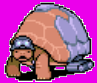
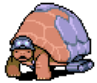
Now actually applies anti-alias clean up when flag is true

diff --git a/src/AntiAliasClean.cpp b/src/AntiAliasClean.cpp
@@ -81,7 +81,7 @@ void convertBGRtoHSL(cv::Vec3b& inputBGR, int& outLum, int& outSat, int& outHue)
 //  - colourList: where the unique colours will be stored 
 void findAllColours(cv::Mat& inputImg, std::vector<colourBucket>& colourList, std::string printLine)
 {
-    std::cout << printLine << std::endl;
+    //std::cout << printLine << std::endl;
 
     //ITERATING OVER THE IMAGE MATRIX 
     for (int i = 0; i < inputImg.rows; i++)
@@ -92,7 +92,7 @@ void findAllColours(cv::Mat& inputImg, std::vector<colourBucket>& colourList, st
             cv::Vec3b pixel = inputImg.at<cv::Vec3b>(i, j);
 
             //If it's a magenta pixel, it's not one of interest. 
-            if (!(pixel[0] == 255 && pixel[1] == 0 && pixel[2] == 255))
+            if (!(pixel[0] == 255 && pixel[1] == 255 && pixel[2] == 255))
             {
                 //If our list is empty, we do want to keep this colour. 
                 if (colourList.size() == 0)
@@ -148,7 +148,7 @@ void findAllColours(cv::Mat& inputImg, std::vector<colourBucket>& colourList, st
 //  - colourList: where the darkest and lightest colours will be put. for best use, should be empty to start 
 void findExtremeColours(cv::Mat& inputImg, std::vector<colourBucket>& colourList, std::string printLine)
 {
-    std::cout << printLine << std::endl;
+    //std::cout << printLine << std::endl;
 
     colourBucket currDarkest;
     currDarkest.averageCol = cv::Vec3b(255, 255, 255);
@@ -175,7 +175,7 @@ void findExtremeColours(cv::Mat& inputImg, std::vector<colourBucket>& colourList
             cv::Vec3b pixel = inputImg.at<cv::Vec3b>(i, j);
 
             //If it's a magenta pixel, it's not one of interest. 
-            if (!(pixel[0] == 255 && pixel[1] == 0 && pixel[2] == 255))
+            if (!(pixel[0] == 255 && pixel[1] == 255 && pixel[2] == 255))
             {
                 int pixelLum, pixelSat, pixelHue;
                 convertBGRtoHSL(pixel, pixelLum, pixelSat, pixelHue);
@@ -216,6 +216,7 @@ void findExtremeColours(cv::Mat& inputImg, std::vector<colourBucket>& colourList
         colourList.push_back(currLightest);
     }
 
+    /* OUTPUT DATA
     std::cout << "CURRENT STATUS AFTER EXTREMES: " << std::endl;
     for (int k = 0; k < colourList.size(); k++)
     {
@@ -234,6 +235,7 @@ void findExtremeColours(cv::Mat& inputImg, std::vector<colourBucket>& colourList
         }
     }
     std::cout << "-------------------------------" << std::endl;
+    */
 }
 
 //INPUT
@@ -492,7 +494,7 @@ void placePixelInBucket(cv::Vec3b& pixel, std::vector<colourBucket>& colourList)
 //  - colourList: the resulting average colours 
 void findCoreColours(cv::Mat& inputImg, std::vector<colourBucket>& colourList, std::string printLine)
 {
-    std::cout << printLine << std::endl;
+    //std::cout << printLine << std::endl;
 
     //ITERATING OVER THE IMAGE MATRIX 
     for (int i = 0; i < inputImg.rows; i++)
@@ -503,7 +505,7 @@ void findCoreColours(cv::Mat& inputImg, std::vector<colourBucket>& colourList, s
             cv::Vec3b pixel = inputImg.at<cv::Vec3b>(i, j);
 
             //If it's a magenta pixel, it's not one of interest. 
-            if (!(pixel[0] == 255 && pixel[1] == 0 && pixel[2] == 255))
+            if (!(pixel[0] == 255 && pixel[1] == 255 && pixel[2] == 255))
             {
                 //If our list is empty, we do want to keep this colour. 
                 if (colourList.size() == 0)
@@ -538,7 +540,7 @@ void compressCoreColours(std::vector<colourBucket>& origColList, std::vector<col
     for (int i = 0; i < origColList.size(); i++)
         compColList.push_back(origColList[i]);
 
-    std::cout << printLine << std::endl;
+    //std::cout << printLine << std::endl;
     //Go over all buckets to see if there's any combinations needed
     for (int colListCheck = 0; colListCheck < compColList.size() - 1; colListCheck++)
     {
@@ -687,7 +689,7 @@ void paintImgWithBuckets(cv::Mat& antiAlias, cv::Mat& paintedImg, std::vector<co
             cv::Vec3b pixel = antiAlias.at<cv::Vec3b>(i, j);
 
             //If it's a magenta pixel, it's not one of interest. 
-            if (!(pixel[0] == 255 && pixel[1] == 0 && pixel[2] == 255))
+            if (!(pixel[0] == 255 && pixel[1] == 255 && pixel[2] == 255))
             {
                 //Current pixel is not magenta
                 //Find the actual pixel colour in colourBucket
@@ -737,14 +739,14 @@ void paintImgWithBuckets(cv::Mat& antiAlias, cv::Mat& paintedImg, std::vector<co
     }
 }
 
-//The process for actually cleaning up an antialiased img 
-void antiAliasCleanup()
+//The testing function for cleanup. Outputs lots of data for comparing
+void testingAntiAliasCleanup()
 {
     //Loading in the original (for comparison) and the anti alias imgs 
     cv::String origPic = "Ocarina_Original";
     cv::String antiPic = "Ocarina_Anti";
 
-    cv::Mat imgOriginal = imread("./input/" + origPic + ".png");
+    cv::Mat imgOriginal = imread("./input/" + origPic + ".png"); 
     cv::Mat img_toTestImage = imread("./input/" + antiPic + ".png");
 
     //Canvas used for seeing what colours we're finding
@@ -769,8 +771,8 @@ void antiAliasCleanup()
     cv::Mat cleanedImage = img_Sharp.clone();
 
     //Finding bucket data 
-    std::vector<colourBucket> origImgcolourBuckets;
-    findAllColours(imgOriginal, origImgcolourBuckets, "Original Img colours:");
+    std::vector<colourBucket> origImgcolourBuckets; 
+    findAllColours(imgOriginal, origImgcolourBuckets, "Original Img colours:");  
     std::vector<colourBucket> sharpImgColourBuckets;
     findAllColours(img_Sharp, sharpImgColourBuckets, "Sharp colours");
     std::vector<colourBucket> sharpImgCoreColourBuckets;
@@ -779,7 +781,7 @@ void antiAliasCleanup()
     compressCoreColours(sharpImgCoreColourBuckets, sharpImgCompressedCoreColourBuckets, "Sharp CORE colours");
 
     //Drawing colour data onto canvases 
-    printBuckets(origAllColoursCanvas, origImgcolourBuckets, "Original colours:", 10);
+    printBuckets(origAllColoursCanvas, origImgcolourBuckets, "Original colours:", 10);  
     //printBuckets(antiAliasAllColoursCanvas, antiImgColourBuckets, "Anti-Aliased colors:", 3); //too many colours here tbh, no point 
     printBuckets(sharpAllColoursCanvas, sharpImgColourBuckets, "Sharp colours", 1);
     printBuckets(sharpCoreColoursCanvas, sharpImgCoreColourBuckets, "Sharp CORE colours", 10);
@@ -811,4 +813,33 @@ void antiAliasCleanup()
     imshow(sharpCoreColsCanvasWindow, sharpCoreColoursCanvas); //All core colours in sharpened image 
     imshow(sharpCompCoreColsCanvasWindow, sharpCompressedCoreColoursCanvas); //All COMPRESSED core colours in sharpened image 
     imshow(paintedImgCanvasWindow, cleanedImage);
+}
+
+//The process for actually cleaning up an antialiased img 
+void antiAliasCleanup(cv::Mat& antiAliasImage, cv::Mat& cleanedImage)
+{
+    //Imgs for filtering purposes 
+    cv::Mat img_blurred = antiAliasImage.clone(); //blurred img for sharpening 
+    cv::Mat img_Gauss = antiAliasImage.clone(); //gaussian img for sharpening 
+    cv::Mat img_Sharp = antiAliasImage.clone(); //resulting sharpened img 
+
+    //Finding the sharpened version of the anti-alias img 
+    blur(antiAliasImage, img_blurred, cv::Size(3, 3), cv::Point(-1, -1));
+    GaussianBlur(antiAliasImage, img_Gauss, cv::Size(3, 3), 3);
+    addWeighted(antiAliasImage, 1.5, img_Gauss, -0.5, 0, img_Sharp);
+
+    //Our resulting cleaned image will be based off of sharpened 
+    cv::Mat resultImage = img_Sharp.clone();
+
+    //Finding bucket data 
+    std::vector<colourBucket> sharpImgCoreColourBuckets;
+    findExtremeColours(img_Sharp, sharpImgCoreColourBuckets, "Sharp Extreme Colours being found...");
+    findCoreColours(img_Sharp, sharpImgCoreColourBuckets, "Sharp CORE colours");
+    std::vector<colourBucket> sharpImgCompressedCoreColourBuckets;
+    compressCoreColours(sharpImgCoreColourBuckets, sharpImgCompressedCoreColourBuckets, "Sharp CORE colours");
+
+    //Paint our resulting img 
+    paintImgWithBuckets(img_Sharp, resultImage, sharpImgCompressedCoreColourBuckets);
+
+    cleanedImage = resultImage; 
 }

diff --git a/src/Main.cpp b/src/Main.cpp
@@ -12,12 +12,16 @@
 extern const bool DEBUG_SHOW_GRAPH = 0;
 extern const bool DEBUG_SHOW_GRID = 0;
 
-int pixelToVector() {
+void useAntiAlias(cv::Mat& cleanImg) {
+    cv::Mat antiImg = cv::imread("./input/Tank_Anti.png");
+    cleanImg = antiImg.clone(); 
+
+    antiAliasCleanup(antiImg, cleanImg);
+}
+
+int pixelToVector(cv::Mat& src) {
     const char* windowName = "Pixel to Vector";
     cv::namedWindow(windowName, cv::WINDOW_AUTOSIZE);
-
-    // Load the image
-    cv::Mat src = cv::imread("./input/Cactuar_Original.png");
 
     PixelGraph* p = new PixelGraph(&src);
 
@@ -45,5 +49,17 @@ int pixelToVector() {
 }
 
 int main() {
-    return pixelToVector();
+    bool applyAntiCleanup = true;
+
+    if (applyAntiCleanup)
+    {
+        cv::Mat src;
+        useAntiAlias(src);
+        return pixelToVector(src);
+    }
+    else 
+    {
+        cv::Mat src = cv::imread("./input/Ocarina_Original.png");
+        return pixelToVector(src);
+    }
 }

diff --git a/include/AntiAliasClean.h b/include/AntiAliasClean.h
@@ -49,5 +49,8 @@ void printBuckets(cv::Mat& canvas, std::vector<colourBucket>& colourList, cv::St
 //and paint over with the new corresponding colour. 
 void paintImgWithBuckets(cv::Mat& antiAlias, cv::Mat& paintedImg, std::vector<colourBucket>& colours);
 
+//Function for testing and outputting cleanup 
+void testingAntiAliasCleanup();
+
 //Run the cleanup
-void antiAliasCleanup();
+void antiAliasCleanup(cv::Mat& antiAliasImage, cv::Mat& cleanedImage);
